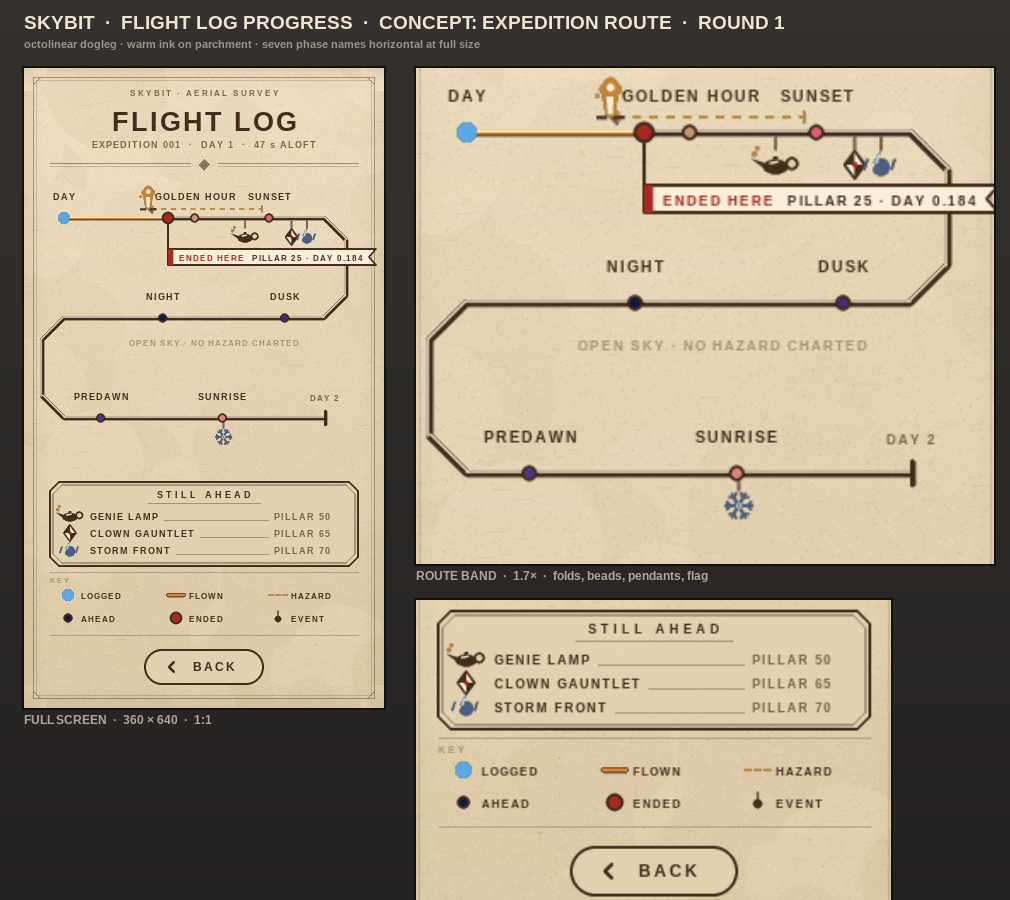
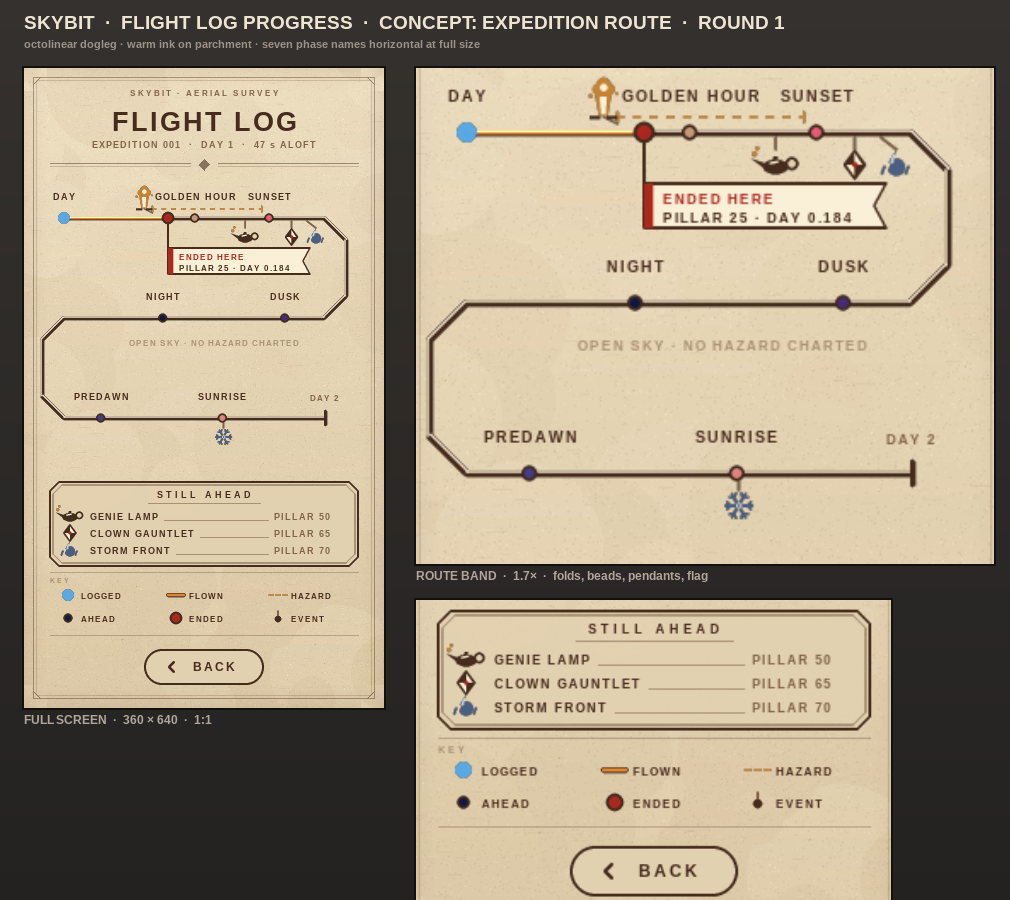
Flight Log progress — sky_ruler, expedition_route, runway_view round 1 updated renders

diff --git a/tools/render_flight_log_progress_sky_ruler.py b/tools/render_flight_log_progress_sky_ruler.py
@@ -371,8 +371,8 @@ def draw_death_callout(surf):
     """Flows RIGHT, into the ahead region: the eye leaves the failure and lands
     on the day still unseen, which is the screen's whole argument."""
     x, y = px(DEATH_PHASE), 201
-    pygame.draw.line(surf, (8, 10, 18), (int(x) + 4, y - 1), (121, y - 1), 5)
-    pygame.draw.line(surf, SCARLET, (int(x) + 5, y), (119, y), 1)
+    pygame.draw.line(surf, (8, 10, 18), (int(x) + 8, y - 1), (121, y - 1), 5)
+    pygame.draw.line(surf, SCARLET, (int(x) + 8, y), (119, y), 1)
     pygame.draw.circle(surf, SCARLET, (119, y), 2)
     text(surf, f"PILLAR {DEATH_PILLAR}  ·  YOU FELL HERE", 9, SCARLET_PAL,
          (125, y), "midleft", shadow=170)
@@ -406,10 +406,12 @@ def draw_loupe(surf):
     soft_shadow(surf, r, 8, spread=5, peak=40)
     panel(surf, r, 8, (32, 39, 58), (17, 21, 34), (0, 0, 0, 0), 255)
 
-    text(surf, "x5", 9, GOLD, (r.x + 8, r.y + 11), "midleft")
-    text(surf, "0.140 – 0.200", 7, MUTED_D, (r.right - 7, r.y + 11), "midright")
+    # Range left, magnification right: it leaves the centre of the header row
+    # clear for the death chevron, which has to sit above its own blade.
+    text(surf, "0.140 – 0.200", 7, MUTED_D, (r.x + 8, r.y + 11), "midleft")
+    text(surf, "x5", 9, GOLD, (r.right - 8, r.y + 11), "midright")
 
-    bx, by, bw, bh = r.x + 3, r.y + 20, 90, 22
+    bx, by, bw, bh = r.x + 3, r.y + 19, 90, 22
     surf.blit(build_sky_strip(bw, bh, LOUPE_P0, LOUPE_P1, 2), (bx, by))
 
     def lx(phv):
@@ -438,16 +440,16 @@ def draw_loupe(surf):
     pygame.draw.rect(surf, SCARLET, (dx - 1, by, 2, bh))
     ch = pygame.Surface((11 * SS, 8 * SS), pygame.SRCALPHA)
     pygame.draw.polygon(ch, SCARLET, [(0, 0), (11 * SS, 0), (5.5 * SS, 8 * SS)])
-    surf.blit(pygame.transform.smoothscale(ch, (11, 8)), (dx - 5, by - 7))
+    surf.blit(pygame.transform.smoothscale(ch, (11, 8)), (dx - 5, by - 8))
 
     ly = by + bh + 3
     aline(surf, STEAM, (int(gx), ly), (int(gx), ly + 3), alpha=130)
     aline(surf, SCARLET, (dx, ly), (dx, ly + 3), alpha=150)
-    text(surf, "GEYSER", 7, STEAM, (gx, ly + 9), "center")
+    text(surf, "GEYSER", 7, STEAM, (gx, ly + 8), "center")
     text(surf, f"PILLAR {pillar_for_phase(THERMAL_START_PHASE)}", 6, MUTED_D,
-         (gx, ly + 17), "center")
-    text(surf, "YOU FELL", 7, SCARLET_PAL, (dx, ly + 9), "center")
-    text(surf, f"PILLAR {DEATH_PILLAR}", 6, MUTED_D, (dx, ly + 17), "center")
+         (gx, ly + 15), "center")
+    text(surf, "YOU FELL", 7, SCARLET_PAL, (dx, ly + 8), "center")
+    text(surf, f"PILLAR {DEATH_PILLAR}", 6, MUTED_D, (dx, ly + 15), "center")
 
     ring = pygame.Surface((r.w * SS, r.h * SS), pygame.SRCALPHA)
     pygame.draw.rect(ring, (*GOLD, 160), ring.get_rect(), width=SS,
@@ -554,7 +556,8 @@ def panel(surf, rect, radius=10, top=SLATE, bot=SLATE_D, ring=(*GOLD, 70),
 
 def draw_teaser(surf):
     r = pygame.Rect(24, 298, 312, 52)
-    panel(surf, r, 10, (34, 28, 52), (20, 17, 34), (*GOLD, 90))
+    soft_shadow(surf, r, 10, spread=4, peak=30)
+    panel(surf, r, 10, (52, 40, 76), (26, 20, 44), (*GOLD, 105), 248)
     lr = text(surf, "STILL AHEAD", 9, GOLD, (r.x + 12, r.y + 13), "midleft",
               spacing=1.6)
     aline(surf, GOLD, (lr.right + 8, r.y + 13), (r.right - 12, r.y + 13),
@@ -634,12 +637,7 @@ def draw_header(surf):
 def draw_back_pill(surf):
     r = pygame.Rect(0, 0, 160, 36)
     r.center = (W // 2, 598)
-    sh = pygame.Surface((r.w + 10, r.h + 10), pygame.SRCALPHA)
-    for i in range(4):
-        pygame.draw.rect(sh, (0, 0, 0, 30 - i * 6),
-                         (5 - i, 7 - i, r.w + i * 2, r.h + i * 2),
-                         border_radius=18 + i)
-    surf.blit(sh, (r.x - 5, r.y - 5))
+    soft_shadow(surf, r, 18, spread=5, peak=44)
     panel(surf, r, 18, (40, 32, 56), (22, 16, 38), (*GOLD, 185), 244)
     text(surf, "BACK", 18, GOLD_PALE, r.center, "center")
 
@@ -650,7 +648,7 @@ def draw_back_pill(surf):
 def draw_background(surf):
     for y in range(H):
         t = y / (H - 1)
-        c = lerp_color((7, 9, 16), (26, 34, 52), t ** 0.85)
+        c = lerp_color((6, 8, 15), (30, 40, 62), t ** 0.85)
         pygame.draw.line(surf, c, (0, y), (W, y))
 
     rnd = random.Random(20260731)
@@ -667,28 +665,36 @@ def draw_background(surf):
     surf.blit(stars, (0, 0))
 
     # A low ridgeline gives the panel stack a horizon to sit above, and puts
-    # the footer pill in the world rather than floating on a flat field.
-    far = [(0, H)]
+    # the footer pill in the world rather than floating on a flat field. The
+    # ranges have to be markedly DARKER than the sky or they vanish into it —
+    # the earlier near-tone pair read as one flat field.
+    glow = pygame.Surface((W, 96), pygame.SRCALPHA)
+    for y in range(96):
+        pygame.draw.line(glow, (52, 74, 116, int(46 * (y / 96) ** 2.0)),
+                         (0, y), (W, y))
+    surf.blit(glow, (0, 462))
+
     rnd2 = random.Random(4242)
+    far = [(0, H)]
     x = -10
     while x < W + 20:
-        far.append((x, 566 + rnd2.randint(-6, 10)))
-        x += rnd2.randint(26, 46)
+        far.append((x, 548 + rnd2.randint(-9, 12)))
+        x += rnd2.randint(22, 40)
     far.append((W, H))
-    pygame.draw.polygon(surf, (21, 27, 43), far)
+    pygame.draw.polygon(surf, (15, 20, 33), far)
 
-    near = [(0, H)]
-    peaks = [(-20, 620), (30, 588), (78, 604), (128, 578), (186, 600),
-             (232, 584), (286, 606), (330, 586), (380, 616)]
-    near.extend(peaks)
-    near.append((W, H))
-    pygame.draw.polygon(surf, (13, 17, 28), near)
+    mid = [(0, H)]
+    x = -10
+    while x < W + 20:
+        mid.append((x, 578 + rnd2.randint(-14, 8)))
+        x += rnd2.randint(34, 58)
+    mid.append((W, H))
+    pygame.draw.polygon(surf, (11, 14, 24), mid)
 
-    mist = pygame.Surface((W, 46), pygame.SRCALPHA)
-    for y in range(46):
-        pygame.draw.line(mist, (60, 78, 110, int(30 * (1 - y / 46))),
-                         (0, y), (W, y))
-    surf.blit(mist, (0, 558))
+    near = [(0, H), (-20, 632), (34, 598), (82, 614), (132, 590),
+            (188, 610), (236, 596), (290, 616), (334, 598), (380, 626),
+            (W, H)]
+    pygame.draw.polygon(surf, (6, 8, 14), near)
 
 
 # ═════════════════════════════════════════════════════════════════════════════
@@ -701,8 +707,8 @@ def main():
     draw_death_marker(surf)
     draw_death_callout(surf)
     draw_loupe(surf)
-    rects = draw_ticks_and_labels(surf)
-    draw_event_rail(surf, rects)
+    draw_ticks(surf)
+    draw_event_rail(surf)
     draw_teaser(surf)
     draw_legend(surf)
     draw_phase_table(surf)

diff --git a/tools/render_flight_log_progress_runway_view.py b/tools/render_flight_log_progress_runway_view.py
@@ -99,7 +99,7 @@ PAV_FAR = (216, 200, 177)           # same stone, washed by distance haze
 HAZE = (240, 232, 210)
 
 PAINT_NEAR = (252, 246, 232)
-PAINT_FAR = (232, 226, 212)
+PAINT_FAR = (245, 239, 226)
 
 APRON_STOPS = [(100.0, (172, 190, 168)),
                (168.0, (108, 136, 114)),
@@ -113,7 +113,6 @@ SCARLET = (232, 62, 58)
 SCARLET_HI = (255, 132, 112)
 
 CREAM = (246, 240, 226)
-MUTED = (196, 206, 200)
 SLATE = (24, 36, 48)
 
 RUBBER = (56, 38, 30)
@@ -264,7 +263,7 @@ def draw_distance_haze():
     for yy in range(s(Y_FAR), s(340.0)):
         y = yy / SS
         t = (340.0 - y) / (340.0 - Y_FAR)
-        a = int(96 * smoothstep(t) ** 1.15)
+        a = int(78 * smoothstep(t) ** 1.15)
         pygame.draw.line(haze, (*HAZE, a), (0, yy), (W * SS, yy))
     clip_to_pavement(haze)
     geo.blit(haze, (0, 0))
@@ -299,7 +298,7 @@ def paint_at_y(y):
     t = (Y_NEAR - y) / (Y_NEAR - Y_FAR)
     base = lerp_color(PAINT_NEAR, PAINT_FAR, smoothstep(t))
     pav = lerp_color(PAV_NEAR, PAV_FAR, smoothstep(t))
-    return lerp_color(base, pav, 0.30 * t)
+    return lerp_color(base, pav, 0.15 * t)
 
 
 def draw_centreline():
@@ -343,8 +342,12 @@ def _threshold_bank(y_base, y_top, spread, stripe_w, gap0):
 
 
 def draw_thresholds():
-    _threshold_bank(Y_NEAR - 0.5, Y_NEAR - 27.0, spread=5.0, stripe_w=6.5, gap0=5.0)
-    _threshold_bank(Y_FAR + 5.0, Y_FAR + 0.5, spread=5.0, stripe_w=6.5, gap0=5.0)
+    # Eight bars spanning ~80% of the half-width; a narrower bank stops
+    # reading as a threshold and starts reading as touchdown-zone clutter.
+    _threshold_bank(Y_NEAR - 0.5, Y_NEAR - 27.0, spread=8.0, stripe_w=12.0,
+                    gap0=6.0)
+    _threshold_bank(Y_FAR + 5.0, Y_FAR + 0.5, spread=8.0, stripe_w=12.0,
+                    gap0=6.0)
 
 
 # ── flown section: marked, never dimmed ──────────────────────────────────────

diff --git a/tools/render_flight_log_progress_expedition_route.py b/tools/render_flight_log_progress_expedition_route.py
@@ -333,8 +333,8 @@ def glyph_rain(s, cx, cy):
         drop.append((cx + math.sin(a) * 5.2, cy + 1.4 + math.cos(a) * -5.2))
     pygame.draw.polygon(s, SLATE, [(p[0] * SS, p[1] * SS) for p in drop])
     stroke(s, [(cx - 1.6, cy - 5.6), (cx - 2.6, cy - 1.2)], 1.4, (196, 214, 238))
-    for dx in (-8.0, 8.0):
-        stroke(s, [(cx + dx, cy - 3.0), (cx + dx - 1.8, cy + 2.6)], 1.4, SLATE)
+    for dx in (-7.0, 7.0):
+        stroke(s, [(cx + dx, cy + 1.0), (cx + dx - 1.4, cy + 5.4)], 1.4, SLATE)
 
 
 def glyph_snow(s, cx, cy):
@@ -430,8 +430,11 @@ def render_screen():
             stroke(marks, [(x, y - 5), (x - 8, y - 9)], 1.4, INK_SOFT)
             glyph_geyser(marks, x - 8, y - 9)
             continue
-        stroke(marks, [(x, y + 3), (x, y + 10)], 1.4, INK_SOFT)
-        gx, gy = x, y + 19
+        # Clown and rain sit 15 px apart on the route, so the rain leader leans
+        # forward -- the standard cartographic answer to two marks in one spot.
+        lean = 9 if kind == "rain" else 0
+        stroke(marks, [(x, y + 3), (x + lean, y + 10)], 1.4, INK_SOFT)
+        gx, gy = x + lean, y + 19
         if kind == "lamp":
             glyph_lamp(marks, gx, gy)
         elif kind == "clown":
@@ -461,7 +464,7 @@ def render_screen():
     lab_b = "PILLAR %d · DAY %.3f" % (DEATH_PILLAR, DEATH_PHASE)
     wa = ls_surf(8, lab_a, SCARLET, 1).get_width()
     wb = ls_surf(8, lab_b, INK, 1).get_width()
-    bw = 11 + max(wa, wb) + 13
+    bw = 11 + max(wa, wb) + 20        # right pad clears the swallowtail notch
     tail = 7
     banner = [(dx_, flag_top), (dx_ + bw, flag_top), (dx_ + bw - tail, (flag_top + flag_bot) / 2),
               (dx_ + bw, flag_bot), (dx_, flag_bot)]
